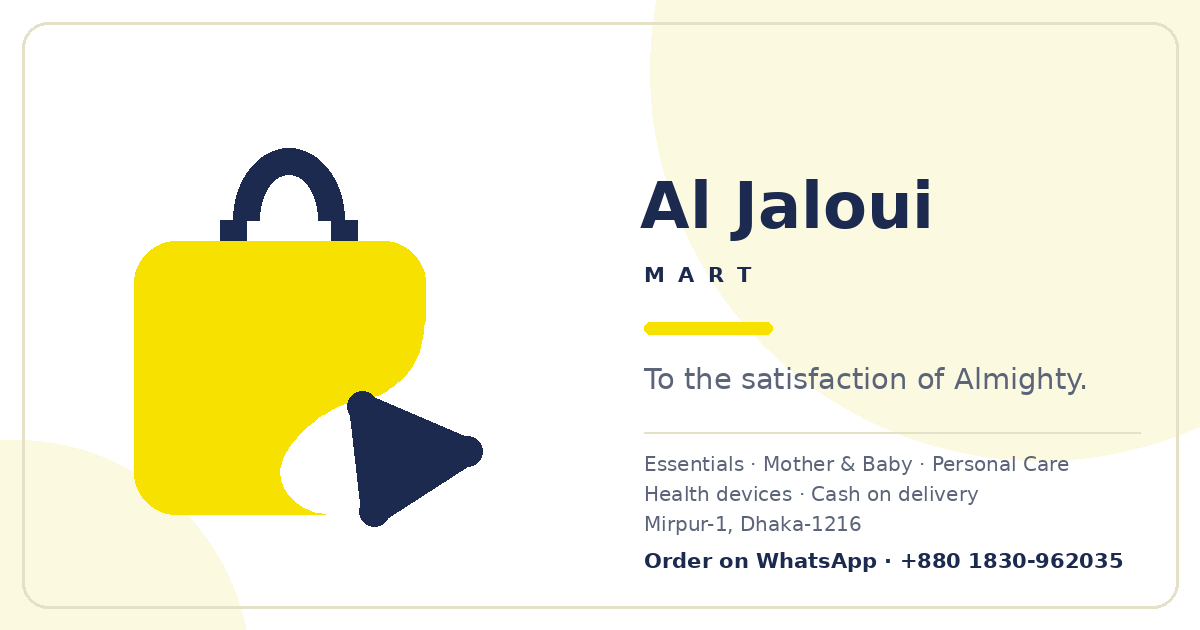
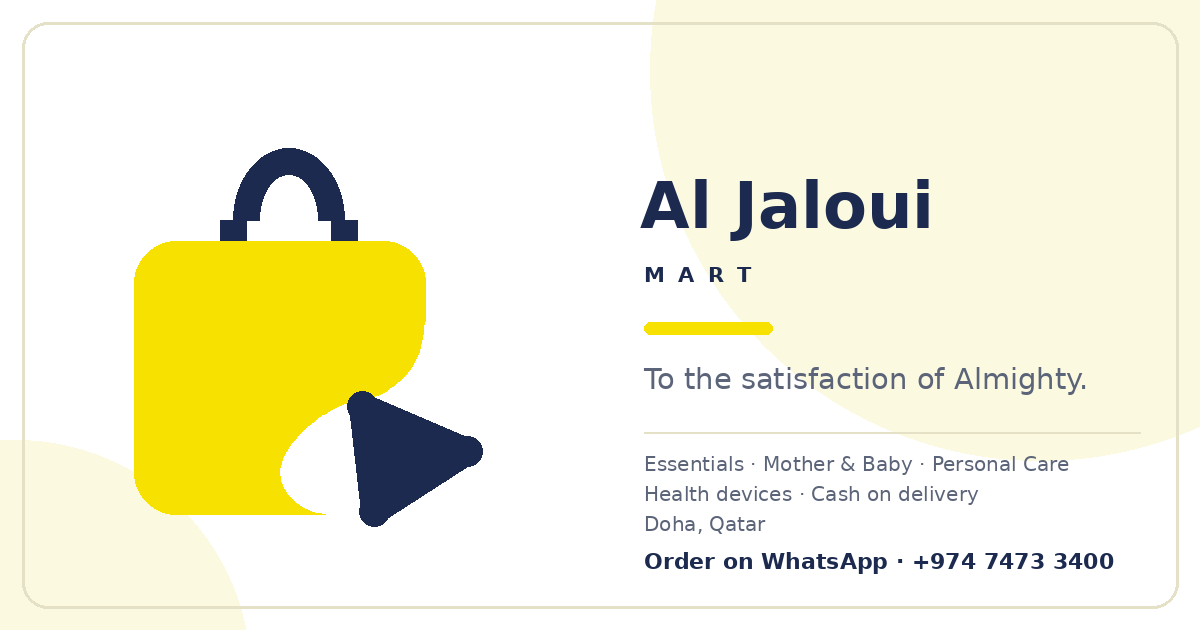
Update the store's contact details to the Doha, Qatar business
The shop is run from Doha, so the phone numbers, WhatsApp number, email and
location across the page, structured data, share image and README now match
+974 7473 3400 / +974 7473 3411 and aljalouimedia@gmail.com.

🤖 Generated with Codebuff

Changed region(s): [[0.5242, 0.8746, 0.9558, 0.9048], [0.5242, 0.8143, 0.74, 0.8444]]

diff --git a/index.html b/index.html
@@ -17,8 +17,8 @@
 <meta charset="UTF-8">
 <meta name="viewport" content="width=device-width, initial-scale=1.0">
 <title>Al Jaloui Mart — To the satisfaction of Almighty</title>
-<meta name="description" content="Al Jaloui Mart, Mirpur-1, Dhaka — everyday essentials, mother & baby care, personal care and health devices. Order via WhatsApp, phone, or cash on delivery.">
-<meta name="keywords" content="Al Jaloui Mart, online shop Mirpur, medicine home delivery Mirpur, mother and baby care Dhaka, personal care, health devices, cash on delivery Dhaka">
+<meta name="description" content="Al Jaloui Mart, Doha, Qatar — everyday essentials, mother & baby care, personal care and health devices. Order via WhatsApp, phone, or cash on delivery.">
+<meta name="keywords" content="Al Jaloui Mart, online shop Doha, medicine home delivery Doha, mother and baby care Qatar, personal care, health devices, cash on delivery Doha">
 <meta name="author" content="Al Jaloui Mart">
 <link rel="canonical" href="https://mizaaaan.github.io/aljalouionlineshop/">
 <meta name="robots" content="index, follow, max-image-preview:large">
@@ -27,7 +27,7 @@
 <meta property="og:site_name" content="Al Jaloui Mart">
 <meta property="og:url" content="https://mizaaaan.github.io/aljalouionlineshop/">
 <meta property="og:title" content="Al Jaloui Mart — To the satisfaction of Almighty">
-<meta property="og:description" content="Everyday essentials, mother & baby care, personal care and health devices from Al Jaloui Mart, Mirpur-1, Dhaka. Order via WhatsApp, phone, or cash on delivery.">
+<meta property="og:description" content="Everyday essentials, mother & baby care, personal care and health devices from Al Jaloui Mart, Doha, Qatar. Order via WhatsApp, phone, or cash on delivery.">
 <meta property="og:image" content="https://mizaaaan.github.io/aljalouionlineshop/og-image.png">
 <meta property="og:image:type" content="image/png">
 <meta property="og:image:width" content="1200">
@@ -37,7 +37,7 @@
 <meta property="og:locale:alternate" content="ar_SA">
 <meta name="twitter:card" content="summary_large_image">
 <meta name="twitter:title" content="Al Jaloui Mart — To the satisfaction of Almighty">
-<meta name="twitter:description" content="Everyday essentials, mother & baby care, personal care and health devices from Al Jaloui Mart, Mirpur-1, Dhaka. Order via WhatsApp, phone, or cash on delivery.">
+<meta name="twitter:description" content="Everyday essentials, mother & baby care, personal care and health devices from Al Jaloui Mart, Doha, Qatar. Order via WhatsApp, phone, or cash on delivery.">
 <meta name="twitter:image" content="https://mizaaaan.github.io/aljalouionlineshop/og-image.png">
 <meta name="twitter:image:alt" content="Al Jaloui Mart — shopping bag logo and tagline">
 <script type="application/ld+json">
@@ -45,23 +45,21 @@
   "@context": "https://schema.org",
   "@type": "Store",
   "name": "Al Jaloui Mart",
-  "alternateName": "Al Jaloui Mart Mirpur",
+  "alternateName": "Al Jaloui Mart Doha",
   "url": "https://mizaaaan.github.io/aljalouionlineshop/",
   "image": "https://mizaaaan.github.io/aljalouionlineshop/og-image.png",
   "logo": "https://mizaaaan.github.io/aljalouionlineshop/og-image.png",
-  "description": "Al Jaloui Mart is a neighbourhood store in Mirpur-1, Dhaka, delivering everyday essentials, mother & baby care, personal care and health devices.",
-  "telephone": "+8801725752500",
-  "email": "avoidmizu@gmail.com",
+  "description": "Al Jaloui Mart is a neighbourhood store in Doha, Qatar, delivering everyday essentials, mother & baby care, personal care and health devices.",
+  "telephone": "+97474733400",
+  "email": "aljalouimedia@gmail.com",
   "priceRange": "৳৳",
   "currenciesAccepted": "BDT",
   "paymentAccepted": "Cash on Delivery",
-  "areaServed": "Mirpur, Dhaka",
+  "areaServed": "Doha, Qatar",
   "address": {
     "@type": "PostalAddress",
-    "streetAddress": "6-B/B, 1st Colony, Mazar Road, Mirpur-1",
-    "addressLocality": "Dhaka",
-    "postalCode": "1216",
-    "addressCountry": "BD"
+    "addressLocality": "Doha",
+    "addressCountry": "QA"
   },
   "sameAs": ["https://www.facebook.com/share/19KjsEKezC/"]
 }
@@ -353,9 +351,9 @@
 <section class="hero" id="home">
   <div class="hero-inner container">
     <div>
-      <div class="eyebrow">MIRPUR-1 · DHAKA</div>
+      <div class="eyebrow">DOHA · QATAR</div>
       <h1><span data-i18n="hero_title_1">Your neighbourhood</span> <span class="accent" data-i18n="hero_title_2">mart</span><br><span data-i18n="hero_title_3">is now online</span></h1>
-      <p class="hero-sub" data-i18n="hero_sub">Everyday essentials, medicine, mother & baby care, personal care and health devices — delivered around Mirpur. No app to install, order in one tap.</p>
+      <p class="hero-sub" data-i18n="hero_sub">Everyday essentials, medicine, mother & baby care, personal care and health devices — delivered around Doha. No app to install, order in one tap.</p>
       <div class="hero-ctas">
         <a href="#products" class="btn btn-primary" data-i18n="hero_cta_browse">Browse Products</a>
         <a href="#contact" class="btn btn-outline" data-i18n="hero_cta_contact">Contact Us</a>
@@ -372,8 +370,8 @@
 </section>
 
 <div class="trust container">
-  <div class="trust-item"><svg><use href="#icon-badge"/></svg><span><b data-i18n="trust1_b">Trusted local shop</b><span data-i18n="trust1_s">Serving Mirpur families</span></span></div>
-  <div class="trust-item"><svg><use href="#icon-truck"/></svg><span><b data-i18n="trust2_b">Home delivery</b><span data-i18n="trust2_s">Around Mirpur, Dhaka</span></span></div>
+  <div class="trust-item"><svg><use href="#icon-badge"/></svg><span><b data-i18n="trust1_b">Trusted local shop</b><span data-i18n="trust1_s">Serving Doha families</span></span></div>
+  <div class="trust-item"><svg><use href="#icon-truck"/></svg><span><b data-i18n="trust2_b">Home delivery</b><span data-i18n="trust2_s">Around Doha, Qatar</span></span></div>
   <div class="trust-item"><svg><use href="#icon-cash"/></svg><span><b data-i18n="trust3_b">Cash on delivery</b><span data-i18n="trust3_s">Pay when it arrives</span></span></div>
   <div class="trust-item"><svg><use href="#icon-whatsapp"/></svg><span><b data-i18n="trust4_b">WhatsApp ordering</b><span data-i18n="trust4_s">Order in a chat, no app needed</span></span></div>
 </div>
@@ -422,16 +420,17 @@
       </div>
       <div>
         <h4 data-i18n="footer_visit">Visit / Contact</h4>
-        <a class="foot-line" href="https://maps.google.com/?q=6-B/B+1st+Colony+Mazar+Road+Mirpur-1+Dhaka-1216" target="_blank" rel="noopener"><svg><use href="#icon-pin"/></svg><span>6-B/B, 1st Colony, Mazar Road, Mirpur-1, Dhaka-1216</span></a>
-        <a class="foot-line" href="tel:+8801725752500"><svg><use href="#icon-phone"/></svg><span>+880 1725-752500</span></a>
-        <a class="foot-line" href="https://wa.me/8801830962035" target="_blank" rel="noopener"><svg><use href="#icon-whatsapp"/></svg><span>WhatsApp: +880 1830-962035</span></a>
-        <a class="foot-line" href="mailto:avoidmizu@gmail.com"><svg><use href="#icon-mail"/></svg><span>avoidmizu@gmail.com</span></a>
+        <a class="foot-line" href="https://maps.google.com/?q=Doha+Qatar" target="_blank" rel="noopener"><svg><use href="#icon-pin"/></svg><span>Doha, Qatar</span></a>
+        <a class="foot-line" href="tel:+97474733400"><svg><use href="#icon-phone"/></svg><span>+974 7473 3400</span></a>
+        <a class="foot-line" href="tel:+97474733411"><svg><use href="#icon-phone"/></svg><span>+974 7473 3411</span></a>
+        <a class="foot-line" href="https://wa.me/97474733400" target="_blank" rel="noopener"><svg><use href="#icon-whatsapp"/></svg><span>WhatsApp: +974 7473 3400</span></a>
+        <a class="foot-line" href="mailto:aljalouimedia@gmail.com"><svg><use href="#icon-mail"/></svg><span>aljalouimedia@gmail.com</span></a>
       </div>
       <div>
         <h4 data-i18n="footer_follow">Follow</h4>
         <div class="social-row">
           <a href="https://www.facebook.com/share/19KjsEKezC/?mibextid=wwXIfr" target="_blank" rel="noopener" aria-label="Facebook" data-aria="a11y_fb"><svg><use href="#icon-fb"/></svg></a>
-          <a href="https://wa.me/message/ZPHFACJDMDQXA1" target="_blank" rel="noopener" aria-label="WhatsApp" data-aria="a11y_wa"><svg><use href="#icon-whatsapp"/></svg></a>
+          <a href="https://wa.me/97474733400" target="_blank" rel="noopener" aria-label="WhatsApp" data-aria="a11y_wa"><svg><use href="#icon-whatsapp"/></svg></a>
         </div>
       </div>
     </div>
@@ -454,7 +453,7 @@
 
 <div class="toast" id="toast" role="status" aria-live="polite"></div>
 
-<a class="wa-float" id="waFloat" href="https://wa.me/8801830962035" target="_blank" rel="noopener" aria-label="Chat with us on WhatsApp" data-aria="a11y_wa_chat">
+<a class="wa-float" id="waFloat" href="https://wa.me/97474733400" target="_blank" rel="noopener" aria-label="Chat with us on WhatsApp" data-aria="a11y_wa_chat">
   <svg><use href="#icon-whatsapp"/></svg>
 </a>
 
@@ -486,7 +485,7 @@ const CATEGORIES = [
   {key:'wellness', en:'Wellness', ar:'العافية', color:'var(--accent-deep)'}
 ];
 /* ============ EDIT YOUR CONTACT INFO HERE ============ */
-const CONTACT = { phone:'+8801725752500', whatsapp:'8801830962035' };
+const CONTACT = { phone:'+97474733400', whatsapp:'97474733400' };
 
 /* ============ Translations ============ */
 const I18N = {
@@ -494,10 +493,10 @@ const I18N = {
     brand_name:'Al Jaloui<span class="wm-sub">Mart</span>',
     nav_home:'Home', nav_products:'Products', nav_about:'About', nav_contact:'Contact',
     hero_title_1:'Your neighbourhood', hero_title_2:'mart', hero_title_3:'is now online',
-    hero_sub:'Everyday essentials, medicine, mother & baby care, personal care and health devices — delivered around Mirpur. No app to install, order in one tap.',
+    hero_sub:'Everyday essentials, medicine, mother & baby care, personal care and health devices — delivered around Doha. No app to install, order in one tap.',
     hero_cta_browse:'Browse Products', hero_cta_contact:'Contact Us',
-    trust1_b:'Trusted local shop', trust1_s:'Serving Mirpur families',
-    trust2_b:'Home delivery', trust2_s:'Around Mirpur, Dhaka',
+    trust1_b:'Trusted local shop', trust1_s:'Serving Doha families',
+    trust2_b:'Home delivery', trust2_s:'Around Doha, Qatar',
     trust3_b:'Cash on delivery', trust3_s:'Pay when it arrives',
     trust4_b:'WhatsApp ordering', trust4_s:'Order in a chat, no app needed',
     products_eyebrow:'WHAT WE STOCK', products_title:'Products', products_sub:'Tap a category to filter, then add items to your order chit.',
@@ -524,10 +523,10 @@ const I18N = {
     brand_name:'الجالوي<span class="wm-sub">مارت</span>',
     nav_home:'الرئيسية', nav_products:'المنتجات', nav_about:'من نحن', nav_contact:'تواصل معنا',
     hero_title_1:'متجر حيّك', hero_title_2:'مارت', hero_title_3:'أصبح الآن على الإنترنت',
-    hero_sub:'كل مستلزماتك اليومية والأدوية والعناية بالأم والطفل والعناية الشخصية والأجهزة الصحية — مع توصيل داخل ميربور. بدون تطبيق، اطلب بلمسة واحدة.',
+    hero_sub:'كل مستلزماتك اليومية والأدوية والعناية بالأم والطفل والعناية الشخصية والأجهزة الصحية — مع توصيل داخل الدوحة. بدون تطبيق، اطلب بلمسة واحدة.',
     hero_cta_browse:'تصفح المنتجات', hero_cta_contact:'تواصل معنا',
-    trust1_b:'متجر محلي موثوق', trust1_s:'في خدمة عائلات ميربور',
-    trust2_b:'توصيل إلى المنزل', trust2_s:'داخل ميربور، دكا',
+    trust1_b:'متجر محلي موثوق', trust1_s:'في خدمة عائلات الدوحة',
+    trust2_b:'توصيل إلى المنزل', trust2_s:'داخل الدوحة، قطر',
     trust3_b:'الدفع عند الاستلام', trust3_s:'ادفع عند وصول طلبك',
     trust4_b:'الطلب عبر واتساب', trust4_s:'اطلب في محادثة، بدون تطبيق',
     products_eyebrow:'ما نوفّره', products_title:'المنتجات', products_sub:'اختر فئة للتصفية، ثم أضف المنتجات إلى قائمة طلبك.',

diff --git a/tools/make_og.py b/tools/make_og.py
@@ -124,7 +124,7 @@ def fit(text, font_path, size, maxw):
 lines = [
     "Essentials \u00b7 Mother & Baby \u00b7 Personal Care",
     "Health devices \u00b7 Cash on delivery",
-    "Mirpur-1, Dhaka-1216",
+    "Doha, Qatar",
 ]
 y = 452
 for text in lines:
@@ -132,7 +132,7 @@ for text in lines:
     d.text((x0 + 4, y), text, font=f, fill=INK_SOF)
     y += 30
 
-order_line = "Order on WhatsApp \u00b7 +880 1830-962035"
+order_line = "Order on WhatsApp \u00b7 +974 7473 3400"
 d.text((x0 + 4, y + 6), order_line, font=fit(order_line, FONT_B, 22, 500), fill=NAVY)
 
 out = "og-image.png"

diff --git a/README.md b/README.md
@@ -1,8 +1,7 @@
 # Al Jaloui Mart
 
-Single-file online store for **Al Jaloui Mart**, 6-B/B, 1st Colony, Mazar Road,
-Mirpur-1, Dhaka-1216. Customers browse products, build an order chit and send it
-over WhatsApp, or order cash on delivery. English and Arabic UI (Arabic switches the
+Single-file online store for **Al Jaloui Mart**, Doha, Qatar. Customers browse
+products, build an order chit and send it over WhatsApp, or order cash on delivery. English and Arabic UI (Arabic switches the
 page to right-to-left).
 
 Live site: **https://mizaaaan.github.io/aljalouionlineshop/**
@@ -31,6 +30,7 @@ Open `index.html` and search for:
 - `const PRODUCTS` — products, prices, categories, `rx` flag and image paths
 - `const CATEGORIES` — category filter buttons
 - `const CONTACT` — order phone number and WhatsApp number
+  (currently `+974 7473 3400` / `+974 7473 3411`, email `aljalouimedia@gmail.com`)
 - `const I18N` — every English and Arabic string (`en` / `ar` objects)
 - `AL JALOUI` — logo and brand name (header, footer)
 
